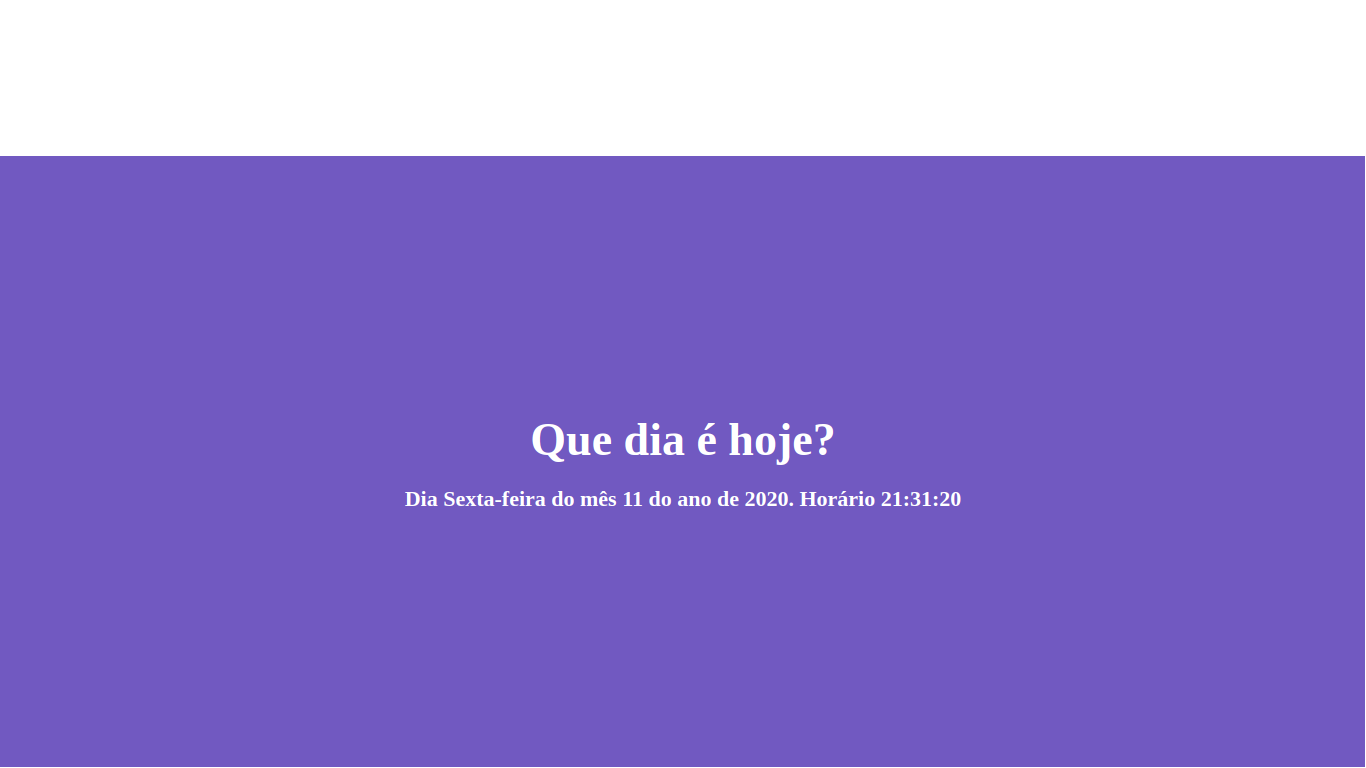
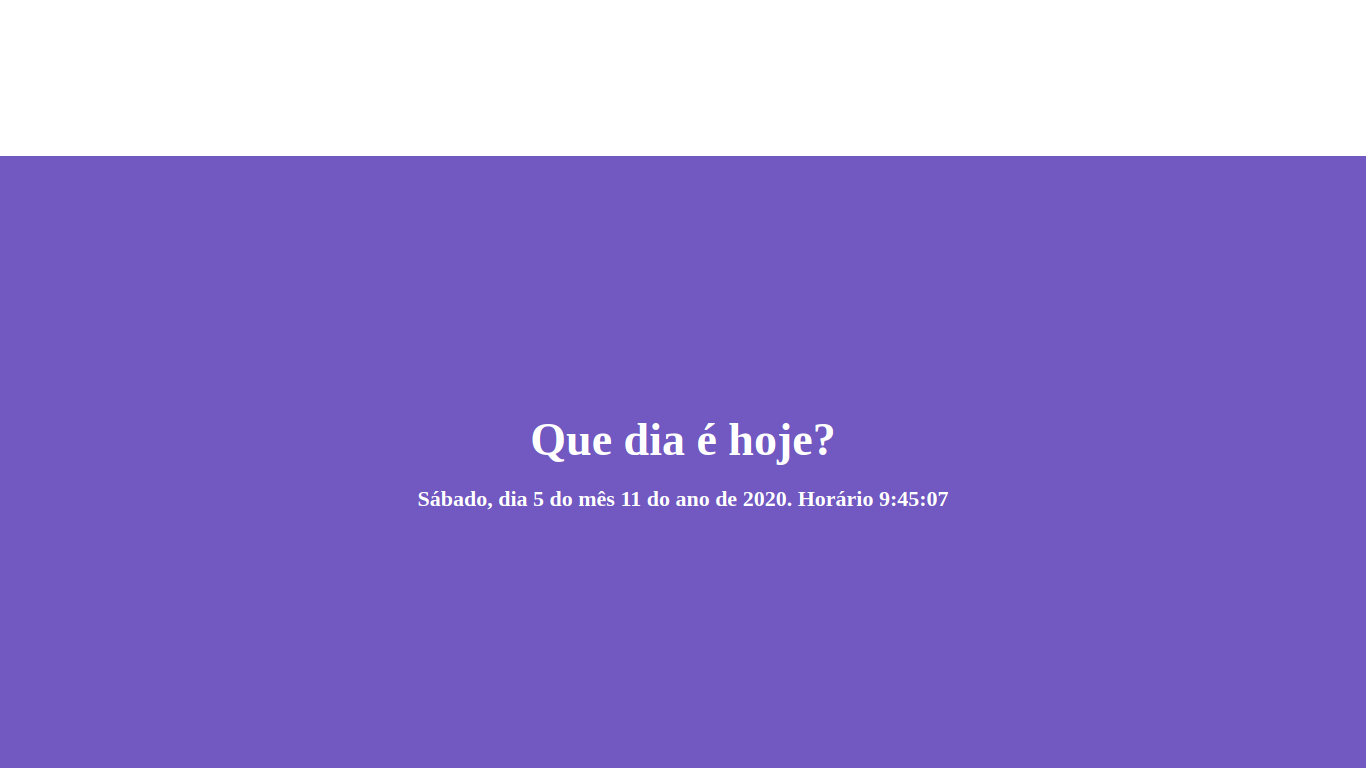
atuallizando codigo e preview

Changed region(s): [[0.2767, 0.625, 0.7072, 0.6562]]

diff --git a/script.js b/script.js
@@ -2,13 +2,14 @@ let dayList = ['Domingo','Segunda', 'Terça-feira', 'Quarta-feira', 'Quinta-feir
 const content = document.querySelector(".content");
 
 setInterval(()=> {
-    let date = new Date();
-    let day = dayList[date.getDay()];
-    let month = date.getMonth();
-    let year = date.getFullYear();
-    let hour = date.getHours();
-    let minute = date.getMinutes();
-    let seconds = date.getSeconds();
+    let mainDate = new Date();
+    let day = dayList[mainDate.getDay()];
+    let date = mainDate.getDate();
+    let month = mainDate.getMonth();
+    let year = mainDate.getFullYear();
+    let hour = mainDate.getHours();
+    let minute = mainDate.getMinutes();
+    let seconds = mainDate.getSeconds();
 
     if(minute.toString().length == 1) {
         minute = `0${minute}`;
@@ -19,7 +20,7 @@ setInterval(()=> {
     }
 
     return (
-        content.innerHTML = `Dia ${day} do mês ${month} do ano de ${year}.
+        content.innerHTML = `${day}, dia ${date} do mês ${month} do ano de ${year}.
         Horário ${hour}:${minute}:${seconds}`
     )
 }, 1000);
